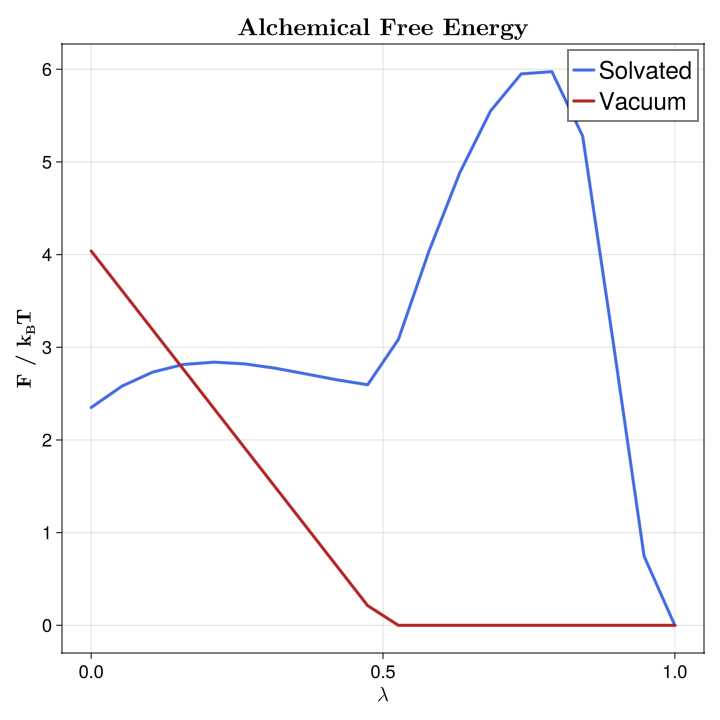
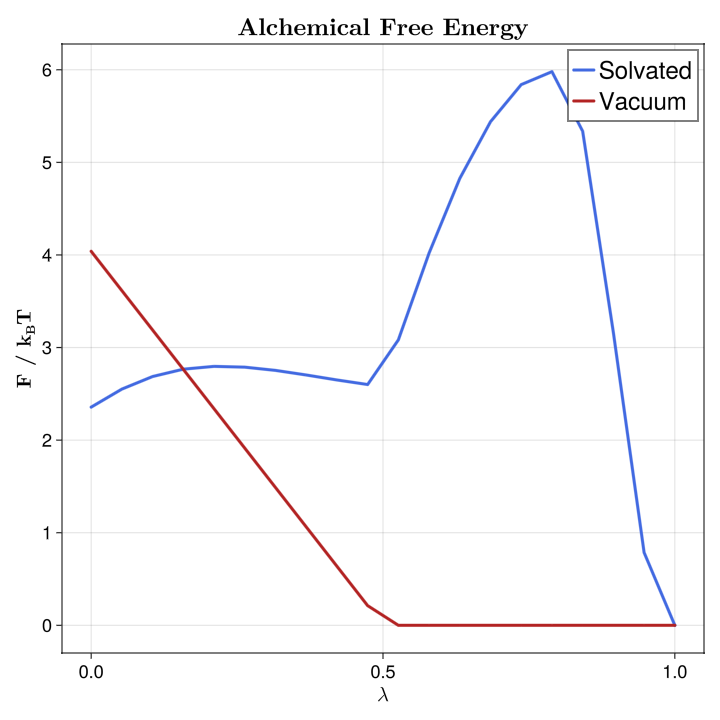
updated HREMD example to match more closely to AWH and TSS

diff --git a/docs/src/free_energy.md b/docs/src/free_energy.md
@@ -2127,7 +2127,7 @@ where the reduced energy difference is
 
 $$\Delta \Delta u = \left[ u_j(x_i) + u_i(x_j) \right] - \left[ u_i(x_i) + u_j(x_j) \right]$$
 
-In Molly, a [`ReplicaSystem`](@ref) is built from one [`ThermoState`](@ref) per state, and [`ReplicaExchangeMD`](@ref) sets the time step `dt` and the time between exchange attempts, `exchange_time`. [`simulate_remd!`](@ref) propagates every replica with the Hamiltonian of the state it is currently in and, after every `exchange_time`, attempts exchanges between neighbouring states, alternating between the pairs $(1, 2), (3, 4), \dots$ and $(2, 3), (4, 5), \dots$. `state_indices[k]` is the replica that is currently in state $k$, and accepted exchanges are recorded in `exchange_logger`. Repeated calls continue from `current_step`. With CPU arrays the states are propagated in parallel on threads. With GPU arrays each GPU is driven by its own worker process, and the systems are sent to the workers on the first call only; later calls send the coordinates, velocities and boxes.
+In Molly, a [`ReplicaSystem`](@ref) is built from one [`ThermoState`](@ref) per state, and [`ReplicaExchangeMD`](@ref) sets the time step `dt` and the time between exchange attempts, `exchange_time`. [`simulate!`](@ref) with a [`ReplicaSystem`](@ref) and a [`ReplicaExchangeMD`](@ref) calls [`simulate_remd!`](@ref), which propagates every replica with the Hamiltonian of the state it is currently in and, after every `exchange_time`, attempts exchanges between neighbouring states, alternating between the pairs $(1, 2), (3, 4), \dots$ and $(2, 3), (4, 5), \dots$. `state_indices[k]` is the replica that is currently in state $k$, and accepted exchanges are recorded in `exchange_logger`. The loggers in `replica_loggers` belong to a state rather than to a replica, so each records the configurations sampled in its state. Repeated calls continue from `current_step`. With CPU arrays the states are propagated in parallel on threads. With GPU arrays each GPU is driven by its own worker process, and the systems are sent to the workers on the first call only; later calls send the coordinates, velocities and boxes.
 
 ### Free energy estimator
 
@@ -2180,13 +2180,13 @@ lambda_schedule = FT.(range(1.0, stop = 0.0, length = N_LAMBDA_STATES))
 scheduler = DefaultLambdaScheduler(dual = true, intraLJ = true)
 ```
 
-`HREMD_TIME` is the simulated time for each $\lambda$ state. One sample per state is stored every `SAMPLE_TIME`, and the first `EQUIL_FRAC` of the samples of each state are discarded before MBAR.
+`HREMD_TIME` is the simulated time for each $\lambda$ state. One sample per state is written to that state's trajectory every `SAMPLE_TIME`, and the first `EQUIL_FRAC` of the samples of each state are discarded before MBAR.
 
 The setup function constructs the solvated and vacuum legs as in the AWH example: PME and an NPT barostat for the solvated leg, and short-range Coulomb with an infinite cutoff for the vacuum leg. Replica exchange starts every replica from the same configuration, so the function also runs the equilibration.
 
 ```julia
-function build_thermo_states(pdb_file, solute_indices; is_vacuum = false,
-                             rng = Random.default_rng())
+function setup_alchemical_hremd(pdb_file, solute_indices, traj_prefix; is_vacuum = false,
+                                rng = Random.default_rng())
     boundary = is_vacuum ? CubicBoundary(FT(Inf) * u"nm") : nothing
     dist_cutoff = is_vacuum ? FT(Inf) * u"nm" : CUTOFF
     nonbonded_method = is_vacuum ? DistanceCutoff(dist_cutoff) : SetupPME()
@@ -2222,7 +2222,7 @@ function build_thermo_states(pdb_file, solute_indices; is_vacuum = false,
     end
 ```
 
-After minimization and equilibration, the function checks the box against the cutoff and creates one [`ThermoState`](@ref) per $\lambda$ value with [`AbsoluteFESystem`](@ref), as in the AWH example. The equilibrated system is returned as well, since all replicas start from it.
+After minimization and equilibration, the function checks the box against the cutoff and creates one [`ThermoState`](@ref) per $\lambda$ value with [`AbsoluteFESystem`](@ref), as in the AWH example. Every state gets a [`TrajectoryWriter`](@ref) that writes a sample every `SAMPLE_TIME`, with the box for the solvated leg, and every replica starts from the equilibrated configuration. The atoms are wrapped into the box, as in the simulation, since the samples are evaluated again for MBAR.
 
 ```julia
     minim = SteepestDescentMinimizer(step_size = FT(0.01)u"nm", max_steps = 1000)
@@ -2257,45 +2257,43 @@ After minimization and equilibration, the function checks the box against the cu
         push!(thermo_states, ThermoState(sys_w, deepcopy(integrator)))
     end
 
-    return thermo_states, sys_base
-end
-```
-
-Each leg starts every replica from the equilibrated configuration. [`simulate_remd!`](@ref) is called once per sampling interval and returns a new [`ReplicaSystem`](@ref). After each call, the configuration that is currently in each $\lambda$ state is stored for MBAR. Every call covers a whole and even number of exchange cycles, here two, so that both sets of neighbouring pairs are attempted equally often.
-
-```julia
-function run_hremd_leg(thermo_states, sys_base)
     K = length(thermo_states)
+    sample_steps = Int(round(SAMPLE_TIME / Δt))
+    replica_loggers = [(trj = TrajectoryWriter(sample_steps, "$(traj_prefix)_state_$(k).dcd";
+                                               correction = :wrap, write_boundary = !is_vacuum,
+                                               overwrite = true),)
+                       for k in 1:K]
+
     repsys = ReplicaSystem(
         thermo_states,
         [copy(sys_base.coords) for _ in 1:K];
         replica_velocities = [copy(sys_base.velocities) for _ in 1:K],
         replica_boundaries = [sys_base.boundary for _ in 1:K],
+        replica_loggers = replica_loggers,
         reuse_neighbors = true,
     )
-    sim = ReplicaExchangeMD(dt = Δt, exchange_time = EXCHANGE_TIME)
 
-    chunk_steps = Int(round(SAMPLE_TIME / Δt))
-    n_chunks = Int(floor(HREMD_TIME / Δt)) ÷ chunk_steps
-    coords_k = [Any[] for _ in 1:K]
-    boundaries_k = [Any[] for _ in 1:K]
-
-    for _ in 1:n_chunks
-        repsys = simulate_remd!(repsys, sim, chunk_steps;
-                                gpu_devices = gpu_devices, show_progress = false)
-
-        for k in 1:K
-            r = repsys.state_indices[k]
-            push!(coords_k[k], Array(repsys.replica_coords[r]))
-            push!(boundaries_k[k], repsys.replica_boundaries[r])
-        end
-    end
-
-    return coords_k, boundaries_k, repsys.exchange_logger
+    return repsys, thermo_states, sys_base
 end
 ```
 
-Every stored configuration is then evaluated in every state with [`assemble_mbar_inputs`](@ref), and the MBAR equations are solved with [`iterate_mbar`](@ref). All states start from the same fully coupled configuration, so the first 20% of the samples of each state are discarded. The free energies are dimensionless, in units of $k_B T$.
+After the simulation, the samples of each state are read back from its trajectory with [`read_trajectory`](@ref), which returns the coordinates and the box side lengths of every frame. The vacuum leg keeps its infinite box, which is not written.
+
+```julia
+function read_state_samples(sys_base, traj_prefix, K; is_vacuum = false)
+    coords_k = []
+    boundaries_k = []
+    for k in 1:K
+        coords, box_sides = read_trajectory(sys_base, "$(traj_prefix)_state_$(k).dcd")
+        push!(coords_k, coords)
+        push!(boundaries_k, is_vacuum ? fill(sys_base.boundary, length(coords)) :
+                                        [CubicBoundary(b...) for b in box_sides])
+    end
+    return coords_k, boundaries_k
+end
+```
+
+Every sample is then evaluated in every state with [`assemble_mbar_inputs`](@ref), and the MBAR equations are solved with [`iterate_mbar`](@ref). All states start from the same fully coupled configuration, so the first 20% of the samples of each state are discarded. The free energies are dimensionless, in units of $k_B T$.
 
 ```julia
 function hremd_free_energies(thermo_states, coords_k, boundaries_k)
@@ -2322,26 +2320,40 @@ function hremd_free_energies(thermo_states, coords_k, boundaries_k)
 end
 ```
 
-The two legs are constructed and run one after the other, and the free energies are then estimated for both.
+The two legs are constructed and run independently, each with one call to [`simulate!`](@ref). On GPUs a new [`ReplicaSystem`](@ref) is returned, so the result is assigned. The free energies are then estimated for both legs.
 
 ```julia
 solute_idx = 1:12
 
-thermo_solv, base_solv = build_thermo_states(
+repsys_solv, thermo_solv, base_solv = setup_alchemical_hremd(
     joinpath(data_dir, "benzene_solv.pdb"),
-    solute_idx;
+    solute_idx,
+    "hremd_solvation_solvated";
     is_vacuum = false,
     rng = MersenneTwister(RNG_SEED),
 )
-coords_solv, boundaries_solv, log_solv = run_hremd_leg(thermo_solv, base_solv)
 
-thermo_vac, base_vac = build_thermo_states(
+repsys_vac, thermo_vac, base_vac = setup_alchemical_hremd(
     joinpath(data_dir, "benzene_vac.pdb"),
-    solute_idx;
+    solute_idx,
+    "hremd_solvation_vacuum";
     is_vacuum = true,
     rng = MersenneTwister(RNG_SEED + 1),
 )
-coords_vac, boundaries_vac, log_vac = run_hremd_leg(thermo_vac, base_vac)
+
+hremd_sim = ReplicaExchangeMD(dt = Δt, exchange_time = EXCHANGE_TIME)
+hremd_steps = Int(floor(HREMD_TIME / Δt))
+
+repsys_solv = simulate!(repsys_solv, hremd_sim, hremd_steps; gpu_devices = gpu_devices)
+repsys_vac  = simulate!(repsys_vac, hremd_sim, hremd_steps; gpu_devices = gpu_devices)
+
+log_solv = repsys_solv.exchange_logger
+log_vac  = repsys_vac.exchange_logger
+
+coords_solv, boundaries_solv = read_state_samples(base_solv, "hremd_solvation_solvated",
+                                                  N_LAMBDA_STATES)
+coords_vac, boundaries_vac = read_state_samples(base_vac, "hremd_solvation_vacuum",
+                                                N_LAMBDA_STATES; is_vacuum = true)
 
 f_solv = hremd_free_energies(thermo_solv, coords_solv, boundaries_solv)
 f_vac  = hremd_free_energies(thermo_vac, coords_vac, boundaries_vac)
@@ -2398,8 +2410,7 @@ The exchange acceptance of every neighbouring pair of states shows how well the 
 
 ```julia
 function pair_acceptance(exchange_logger, K)
-    n_cycles = Int(floor(HREMD_TIME / Δt)) ÷ Int(round(SAMPLE_TIME / Δt)) *
-               (Int(round(SAMPLE_TIME / Δt)) ÷ Int(round(EXCHANGE_TIME / Δt)))
+    n_cycles = Int(round(HREMD_TIME / EXCHANGE_TIME))
     accepted = zeros(Int, K - 1)
     for (n, m) in exchange_logger.indices
         accepted[min(n, m)] += 1
@@ -2536,11 +2547,11 @@ A run with these settings gives, in kJ mol^-1:
 
 ```text
 =========================================
-Annihilation in solvent (kJ mol^-1): -5.826
-Annihilation in vacuum (kJ mol^-1):  -10.012
-Hydration Free Energy (kJ mol^-1):   -4.186
-Lowest pair acceptance in solvent:   0.163
+Annihilation in solvent (kJ mol^-1): -5.841
+Annihilation in vacuum (kJ mol^-1):  -10.013
+Hydration Free Energy (kJ mol^-1):   -4.172
+Lowest pair acceptance in solvent:   0.149
 =========================================
 ```
 
-The experimental hydration free energy of benzene is $-3.67 \pm 0.05$ kJ mol^-1 ([Kashefolgheta et al. 2020](https://pubs.acs.org/jctcce/article/16/12/7556/617259/Evaluating-Classical-Force-Fields-against)), 0.52 kJ mol^-1 above this result, which is about the scatter of a single run. A single run of this length is worth about $\pm 0.5$ kJ mol^-1: the first and second halves of the samples of this run differ by 0.9 kJ mol^-1, while the vacuum leg reproduces to 0.001 kJ mol^-1 between runs, so the scatter comes from the solvated leg alone. Its ladder mixes slowly where the cavity forms, the dip around states 3 and 4 in the acceptance plot above. Adding $\lambda$ states in that region, so that neighbouring states overlap more, and running for longer both reduce the scatter.
+The experimental hydration free energy of benzene is $-3.67 \pm 0.05$ kJ mol^-1 ([Kashefolgheta et al. 2020](https://pubs.acs.org/jctcce/article/16/12/7556/617259/Evaluating-Classical-Force-Fields-against)), 0.50 kJ mol^-1 above this result, which is within the scatter of a single run. Repeated runs of this length give between -3.6 and -4.4 kJ mol^-1, so a single run is worth about $\pm 0.5$ kJ mol^-1, while the vacuum leg reproduces to 0.01 kJ mol^-1 between runs, so the scatter comes from the solvated leg alone. Its ladder mixes slowly where the cavity forms, the dip around states 3 and 4 in the acceptance plot above. Adding $\lambda$ states in that region, so that neighbouring states overlap more, and running for longer both reduce the scatter.
